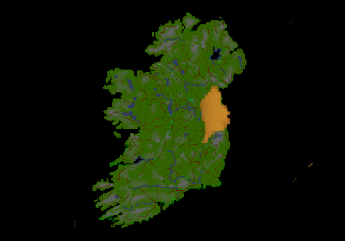
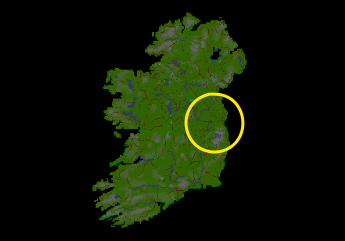
add graphical resources.

Changed region(s): [[0.5217, 0.3485, 0.7246, 0.639]]

diff --git a/app1.js b/app1.js
@@ -42,7 +42,8 @@ let lastSlide = 29;
     `1169 AD`,
     ``,
     `An Pháil`,
-    `Dara Éirí Amach i nDeasmhumhain (1579-1583) `,
+    `Éirí Amach <br/>
+    1579-1583`,
     ``,
     `"Soe that the speach being Irish, 
 the hart must needes be Irishe; 
@@ -118,17 +119,14 @@ Gaelic civilization
 flourished in Ireland.`
 ,
 
-`In 1169AD Norman Mercenaries were invited to Ireland 
-by King Diarmait Mac Murchada to control Leinster.`
+`In 1169 AD, King Diarmait Mac Murchada invited Norman Mercenaries to help him control rebellion in Leinster.`
 ,
-`In England, King Henry II used his connection to the mercenaries to declare the conquered cities 
+`King Henry II of England used this to declare the conquered cities 
 crown-land. So began 800 years of English rule in Ireland.`
 ,
 
-`By the start of the sixteenth century,
-despite centuries of military campaigning,
-English law existed only within
-a small area surrounding Dublin Castle.`
+`By 1500 AD, despite centuries of military campaigning,
+English law existed only around Dublin Castle.`
 ,
 
 `In 1580 yet another Gaelic rebellion was defeated.
@@ -170,14 +168,14 @@ let images = [
     ``,
     ``,
     ``,//storm calmed
-    ``,
+    `retreat.png`,
     
-    `norman.png`, //1169AD
-    ``,
-    ``,
-    ``,
-    ``,
-    ``,
+    `king.png`, //1169AD
+    `norman.png`,
+    `pale.png`,
+    `ruairi.png`,
+    `spencer.png`,
+    `spencer.png`,
     ``,
 ]
 
